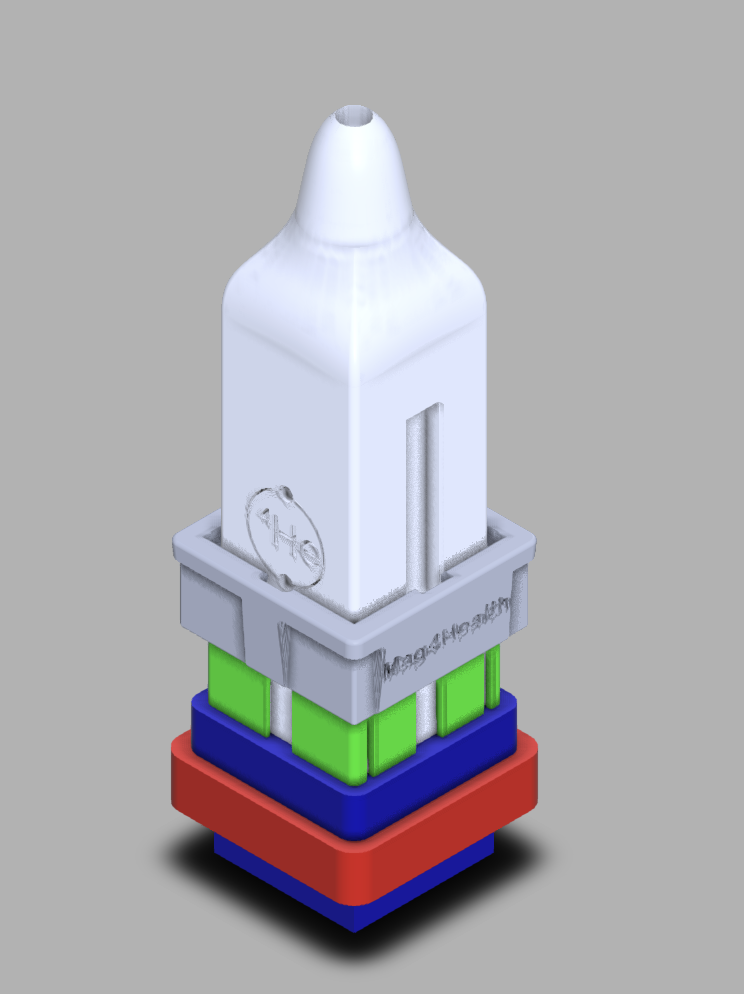
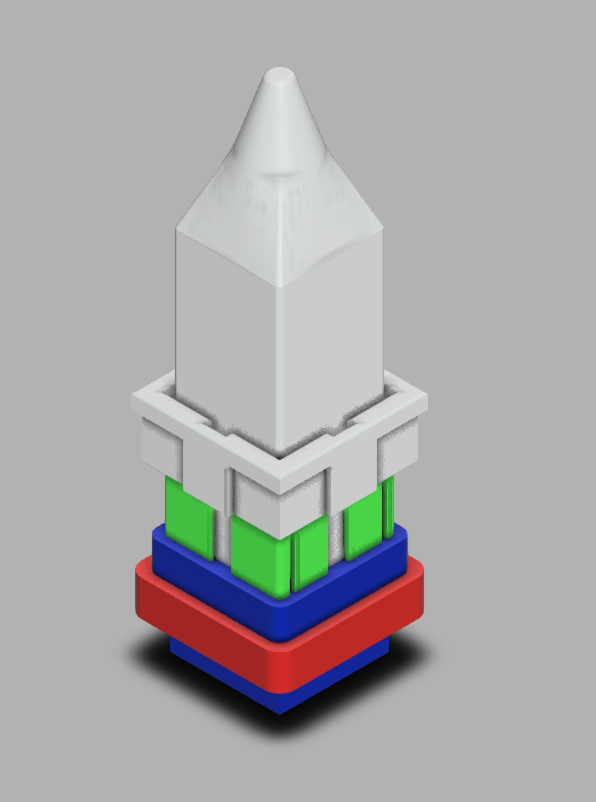
replaced mag4health socket by own design

Changed region(s): [[0.2114, 0.0623, 0.755, 0.9975]]

diff --git a/example/other/opm_sensors.md b/example/other/opm_sensors.md
@@ -133,7 +133,7 @@ The design can be visualised on and downloaded from <https://a360.co/4s48B4G>. T
     figure
     ft_plot_headshape(headshape, 'facecolor', 'skin', 'facealpha', 1, 'axes', true);
     ft_plot_mesh(helmet, 'facecolor', 'lightgray', 'facealpha', 0.5, 'edgecolor', 'none');
-    ft_plot_mesh(sensor, 'facecolor', 'red', 'facealpha', 1, 'edgecolor', 'none');
+    ft_plot_mesh(sensor, 'facecolor', 'darkgray', 'facealpha', 1, 'edgecolor', 'none');
     ft_plot_mesh(holder, 'facecolor', 'limegreen', 'facealpha', 1, 'edgecolor', 'none');
     ft_plot_mesh(ring, 'facecolor', 'darkgreen', 'facealpha', 1, 'edgecolor', 'none');
     % ft_plot_mesh(hole, 'facecolor', 'y', 'facealpha', 0.5, 'edgecolor', 'none');
